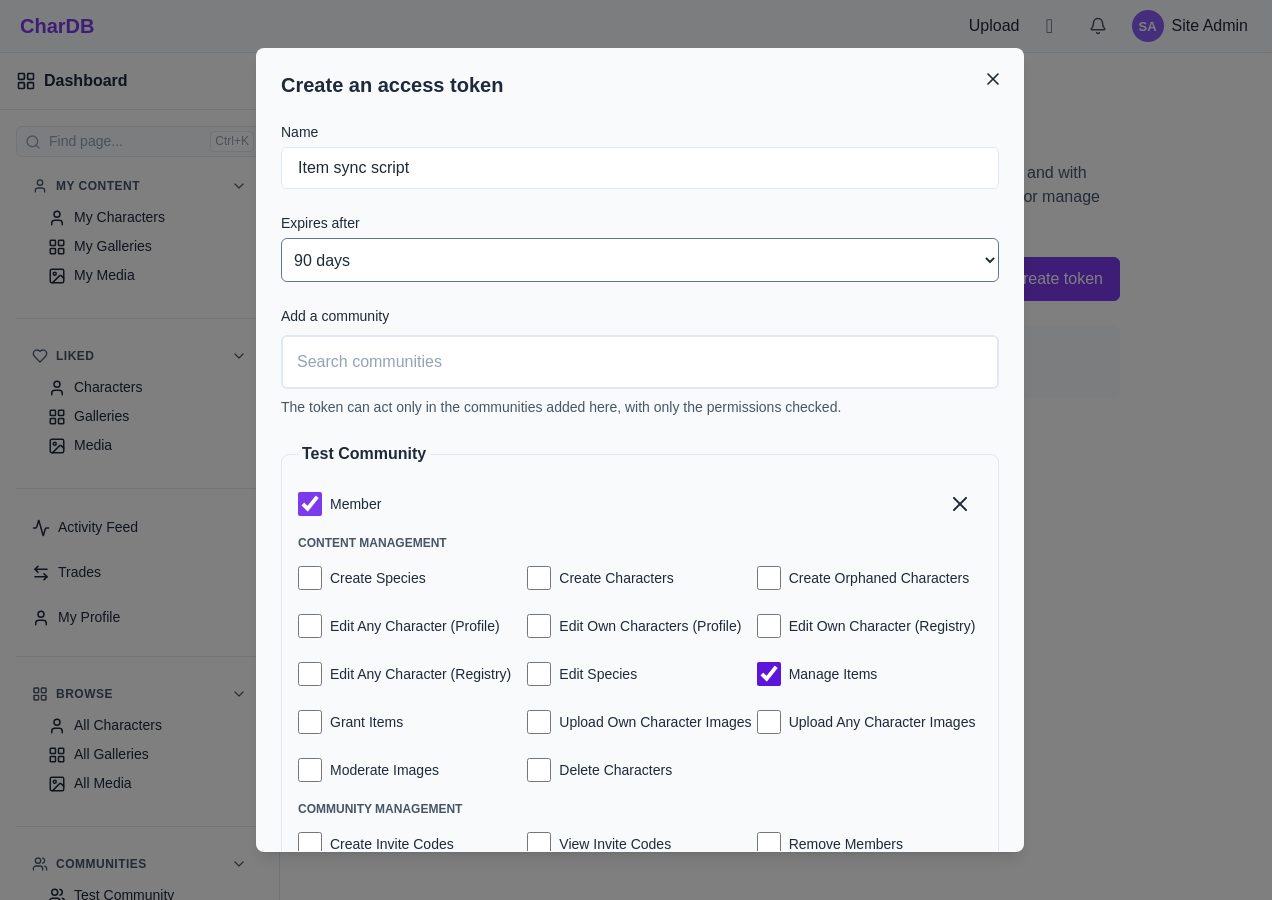
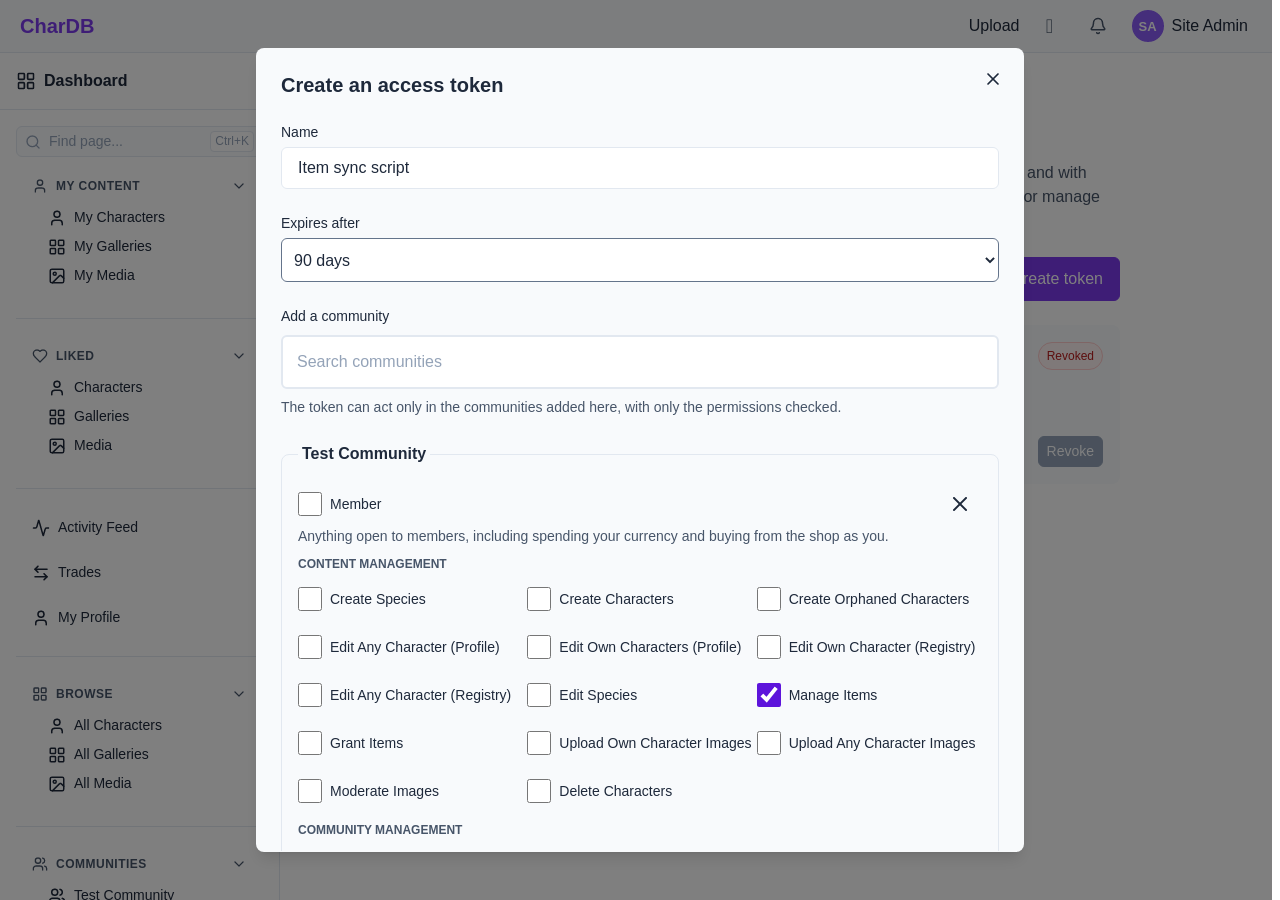
docs: access token membership is opt-in

diff --git a/docs/docs/access-tokens.html b/docs/docs/access-tokens.html
@@ -245,15 +245,19 @@
           <p>
             Name it after what will use it, pick how long it lasts (7, 30, 90 or
             365 days), then add each community it may act in. Every community
-            added gets its own checklist. <strong>Member</strong> lets it
-            through anything open to the community's members; each permission
-            below it is the same permission a role can hold.
+            added gets its own checklist, all unchecked. Each permission is the
+            same permission a role can hold.
+          </p>
+          <p>
+            <strong>Member</strong> lets it through anything open to the
+            community's members. That includes spending your currency and buying
+            from the shop as you, so leave it off unless the script needs it.
           </p>
         </div>
         <div class="screenshot">
           <img
             src="access-tokens-create.png"
-            alt="The create-token dialog: a name, a 90-day expiry, Test Community added, with Member and Manage Items checked."
+            alt="The create-token dialog: a name, a 90-day expiry, Test Community added, with only Manage Items checked."
           />
           <div class="screenshot-caption">
             A token for one community that may manage item types there and
